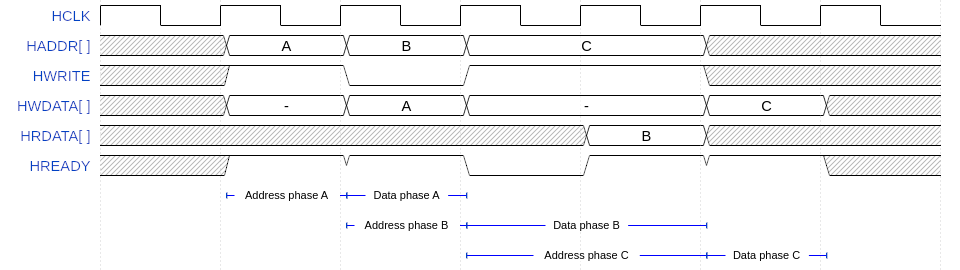
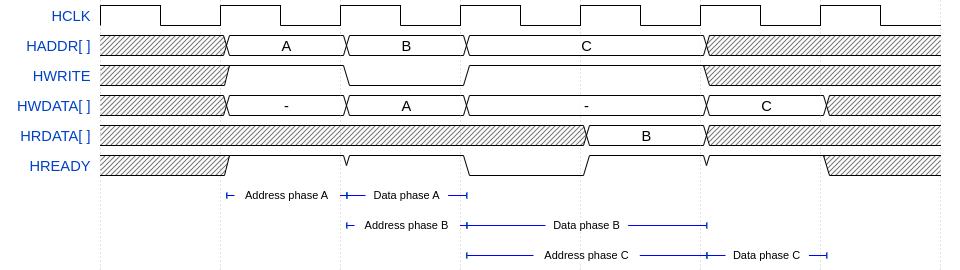
deploy: ca021180d456b43036d95886f25c9498250bbaca

diff --git a/amba.html b/amba.html
@@ -69,6 +69,10 @@ Subordinate | Agent that receives and responds to requests
 * All signals are sampled at the rising edge of xCLK.
 * xRESETn is the only active low signal.
 * xADDR indicates a byte address.
+* Transfers are initiated by M (specifying ADDR/CTRL), and finished by S (with a response).
+
+> **ATTENTION:** transfers **CAN'T BE CANCELED**
+<!-- .element: style="font-size: 0.8em !important;" -->
 </script></section></section><section ><section data-markdown><script type="text/template">
 <!-- ###################################################################### -->
 ### APB
@@ -257,7 +261,18 @@ Main uses:
 </script></section><section data-markdown><script type="text/template">
 ### AHB - HRESP (transfer response)
 
-> HRESP is 2 bits wide in AHB2, to support SPLIT and RETRY (removed on AMBA3).
+> HRESP is used to indicate an ERROR condition.
+> OKAY response can be given in a single cycle, but for ERROR two cycles are required.
+> In the first cycle, HREADY must be LOW, and HIGH in the second.
+> The two cycles are needed because of the pipelined nature of the bus (when ERROR response starts,
+> the address of the following transfer is already available).
+<!-- .element: style="font-size: 0.4em !important;" -->
+
+![AHB response](images/ahb-hresp.png)
+<!-- .element: style="background-color: white;" -->
+
+> * If an ERROR response is received, the remaining transfers in a burst can be canceled, but this is not a strict requirement, and it is also acceptable to continue.
+> * HRESP is 2 bits wide in AHB2, to support SPLIT and RETRY (removed on AMBA3).
 <!-- .element: style="font-size: 0.4em !important;" -->
 </script></section><section data-markdown><script type="text/template">
 ### AHB5 - HWSTRB
@@ -358,6 +373,11 @@ Indicates that the current transfer sequence is indivisible (typically used to m
 
 > After a locked transfer, it is recommended to insert an IDLE transfer.
 <!-- .element: style="font-size: 0.4em !important;" -->
+</script></section><section data-markdown><script type="text/template">
+### The full picture
+
+![AHB full signaling](images/ahb-waves.png)
+<!-- .element: style="background-color: white;" -->
 </script></section><section data-markdown><script type="text/template">
 ### AHB design considerations - TBD
 <!-- .slide: data-background="yellow" -->

diff --git a/index.html b/index.html
@@ -69,6 +69,10 @@ Subordinate | Agent that receives and responds to requests
 * All signals are sampled at the rising edge of xCLK.
 * xRESETn is the only active low signal.
 * xADDR indicates a byte address.
+* Transfers are initiated by M (specifying ADDR/CTRL), and finished by S (with a response).
+
+> **ATTENTION:** transfers **CAN'T BE CANCELED**
+<!-- .element: style="font-size: 0.8em !important;" -->
 </script></section></section><section ><section data-markdown><script type="text/template">
 <!-- ###################################################################### -->
 ### APB
@@ -257,7 +261,18 @@ Main uses:
 </script></section><section data-markdown><script type="text/template">
 ### AHB - HRESP (transfer response)
 
-> HRESP is 2 bits wide in AHB2, to support SPLIT and RETRY (removed on AMBA3).
+> HRESP is used to indicate an ERROR condition.
+> OKAY response can be given in a single cycle, but for ERROR two cycles are required.
+> In the first cycle, HREADY must be LOW, and HIGH in the second.
+> The two cycles are needed because of the pipelined nature of the bus (when ERROR response starts,
+> the address of the following transfer is already available).
+<!-- .element: style="font-size: 0.4em !important;" -->
+
+![AHB response](images/ahb-hresp.png)
+<!-- .element: style="background-color: white;" -->
+
+> * If an ERROR response is received, the remaining transfers in a burst can be canceled, but this is not a strict requirement, and it is also acceptable to continue.
+> * HRESP is 2 bits wide in AHB2, to support SPLIT and RETRY (removed on AMBA3).
 <!-- .element: style="font-size: 0.4em !important;" -->
 </script></section><section data-markdown><script type="text/template">
 ### AHB5 - HWSTRB
@@ -358,6 +373,11 @@ Indicates that the current transfer sequence is indivisible (typically used to m
 
 > After a locked transfer, it is recommended to insert an IDLE transfer.
 <!-- .element: style="font-size: 0.4em !important;" -->
+</script></section><section data-markdown><script type="text/template">
+### The full picture
+
+![AHB full signaling](images/ahb-waves.png)
+<!-- .element: style="background-color: white;" -->
 </script></section><section data-markdown><script type="text/template">
 ### AHB design considerations - TBD
 <!-- .slide: data-background="yellow" -->
